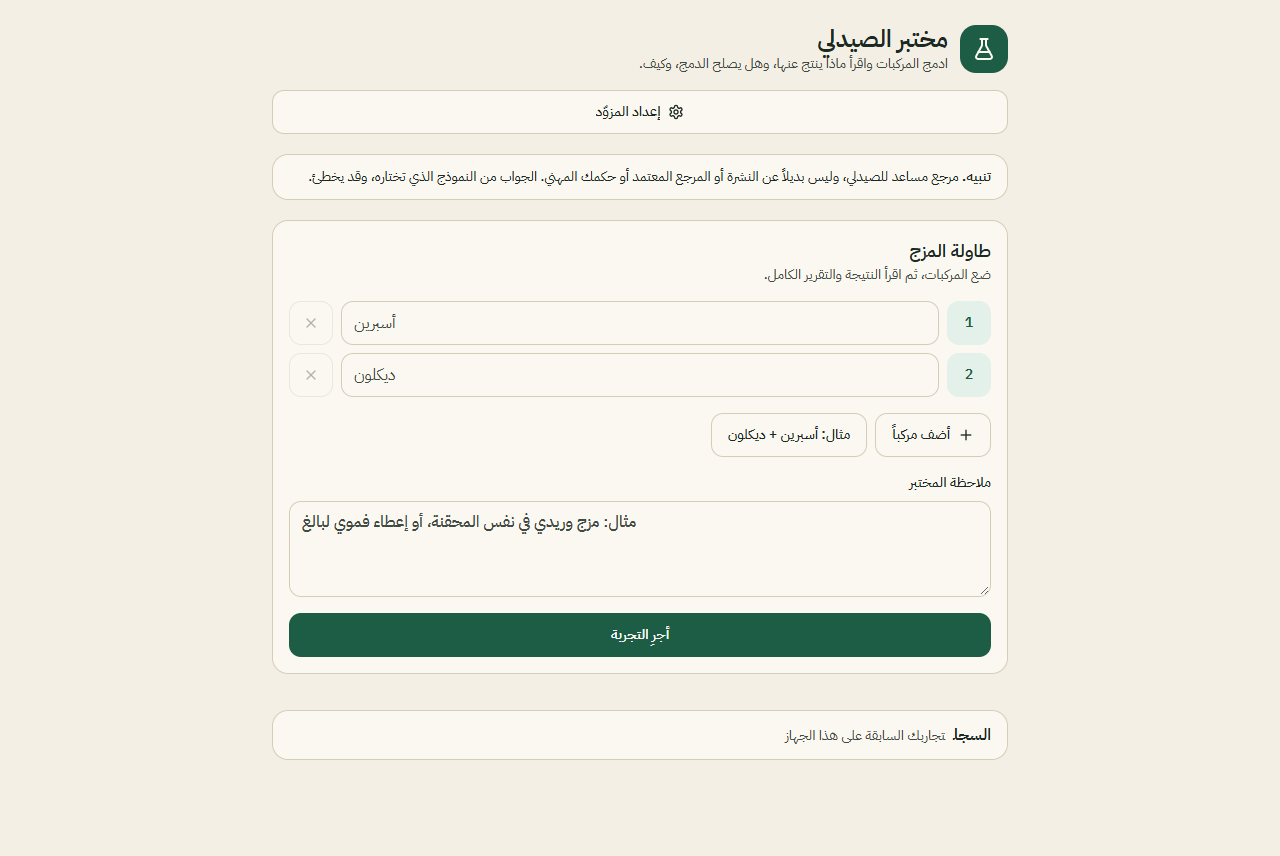
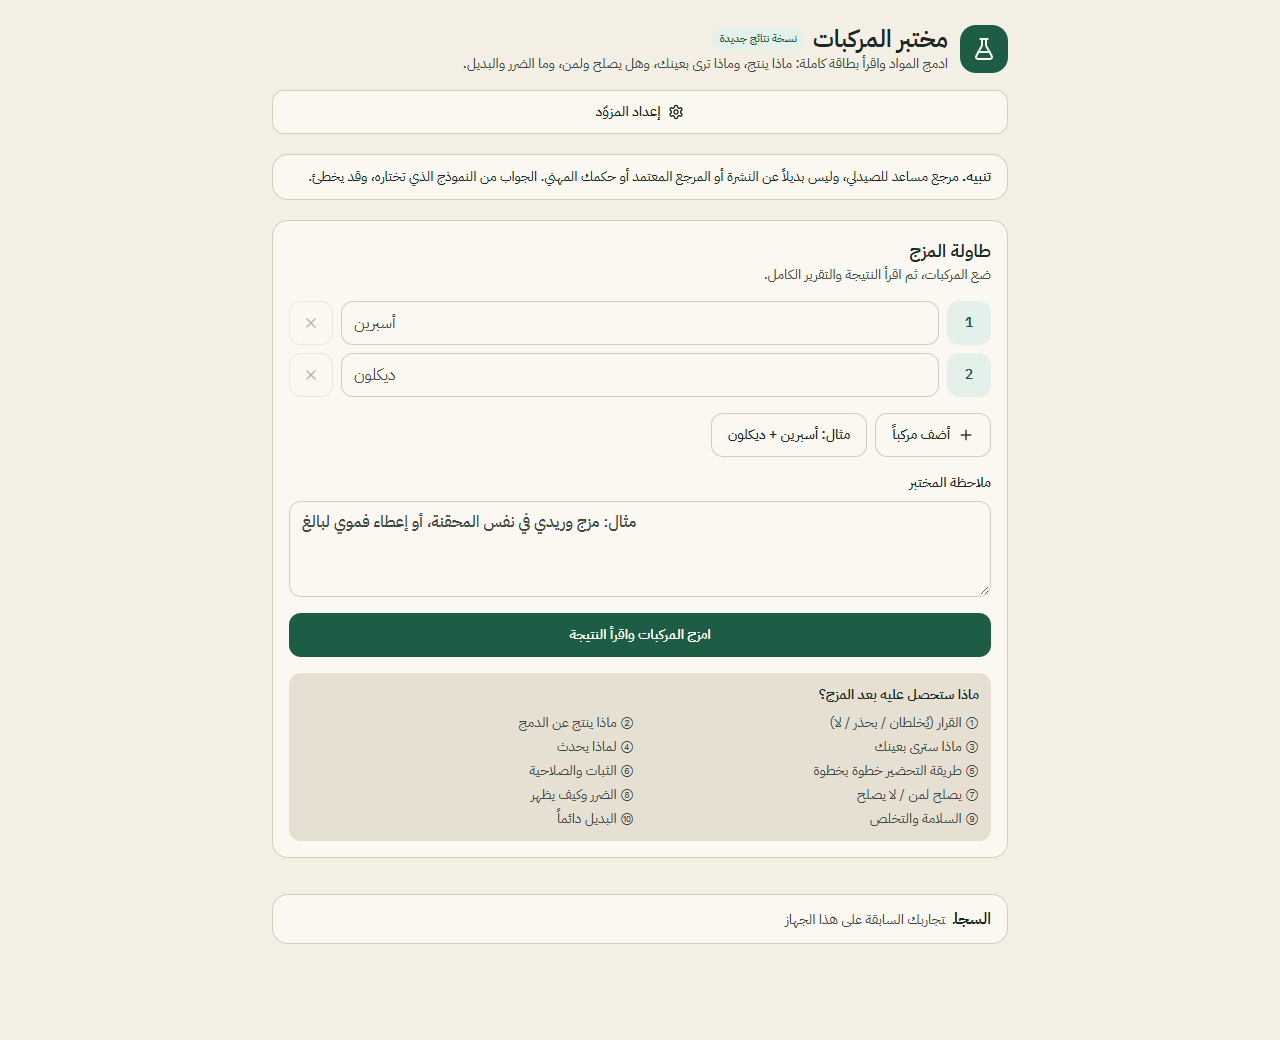
الفرقvisible: اسم مختبر المركبات + شارة النسخة + معاينة الأقسام العشرة قبل المزج

diff --git a/src/components/lab-panel.tsx b/src/components/lab-panel.tsx
@@ -144,8 +144,23 @@ export function LabPanel({ seed, onNeedSettings }: { seed: HistoryItem | null; o
         </label>
         <button type="button" className={primaryBtn} disabled={pending} onClick={() => void run()}>
           {pending ? <Loader2 className="size-4 animate-spin" /> : null}
-          {pending ? "تُجرى التجربة…" : "أجرِ التجربة"}
+          {pending ? "تُجرى التجربة…" : "امزج المركبات واقرأ النتيجة"}
         </button>
+        <div className="rounded-xl bg-paper-deep px-3 py-3">
+          <p className="text-sm font-semibold">ماذا ستحصل عليه بعد المزج؟</p>
+          <ol className="mt-2 grid grid-cols-2 gap-x-3 gap-y-1 text-sm text-muted">
+            <li>① القرار (يُخلطان / بحذر / لا)</li>
+            <li>② ماذا ينتج عن الدمج</li>
+            <li>③ ماذا سترى بعينك</li>
+            <li>④ لماذا يحدث</li>
+            <li>⑤ طريقة التحضير خطوة بخطوة</li>
+            <li>⑥ الثبات والصلاحية</li>
+            <li>⑦ يصلح لمن / لا يصلح</li>
+            <li>⑧ الضرر وكيف يظهر</li>
+            <li>⑨ السلامة والتخلص</li>
+            <li>⑩ البديل دائماً</li>
+          </ol>
+        </div>
         {error ? (
           <p className="text-sm text-danger" role="alert">
             {error}

diff --git a/src/components/home.tsx b/src/components/home.tsx
@@ -53,8 +53,15 @@ export function Home() {
             <FlaskConical className="size-6" aria-hidden />
           </span>
           <div className="min-w-0">
-            <h1 className="text-2xl font-semibold leading-tight">مختبر الصيدلي</h1>
-            <p className="text-sm text-muted">ادمج المركبات واقرأ ماذا ينتج عنها، وهل يصلح الدمج، وكيف.</p>
+            <div className="flex flex-wrap items-center gap-2">
+              <h1 className="text-2xl font-semibold leading-tight">مختبر المركبات</h1>
+              <span className="rounded-full bg-herb-soft px-2 py-0.5 text-[11px] font-medium text-herb">
+                نسخة نتائج جديدة
+              </span>
+            </div>
+            <p className="text-sm text-muted">
+              ادمج المواد واقرأ بطاقة كاملة: ماذا ينتج، وماذا ترى بعينك، وهل يصلح ولمن، وما الضرر والبديل.
+            </p>
           </div>
         </div>
         <button
